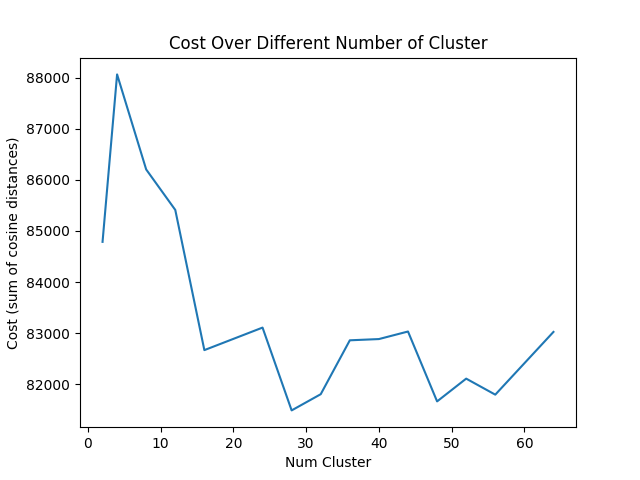
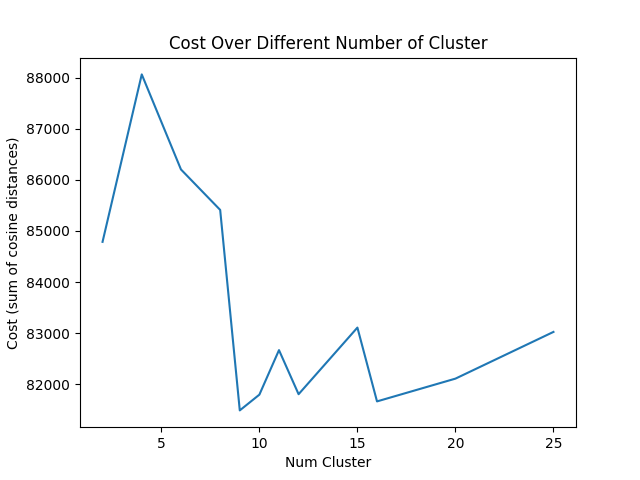
replotting costs

diff --git a/plot_costs.py b/plot_costs.py
@@ -11,14 +11,20 @@ def main():
 	#parse command line arguments
 	args = parser.parse_args()
 
-	xs = []
-	ys = []
+	lookup = {} #k --> (cost, id)
 	with open(args.in_path) as in_file:
 		csv_reader = csv.reader(in_file, delimiter=',')
 		for row in csv_reader:
-			xs.append(int(row[0])) #k num
-			ys.append(float(row[1])) #cost
+			i = int(row[0]) #id
+			num_cent = int(row[1]) #num centroids
+			cost = float(row[2])
+			if num_cent in lookup and lookup[num_cent] > cost:
+				lookup[num_cent] = cost
+			else:
+				lookup[num_cent] = cost
 
+	items = sorted(list(lookup.items()))
+	xs, ys = zip(*items)
 	plt.plot(xs, ys)
 	plt.title("Cost Over Different Number of Cluster")
 	plt.xlabel("Num Cluster")
